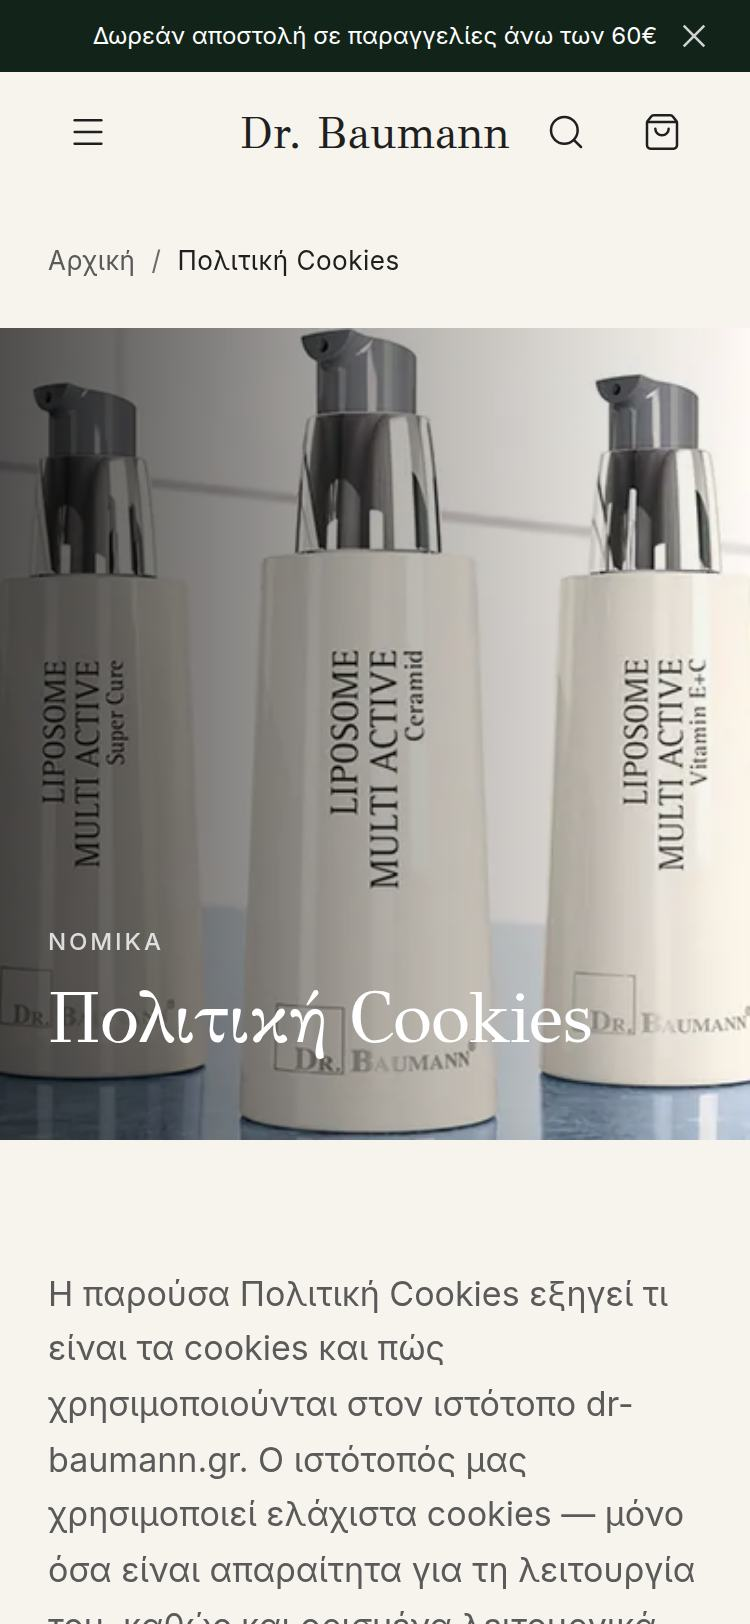
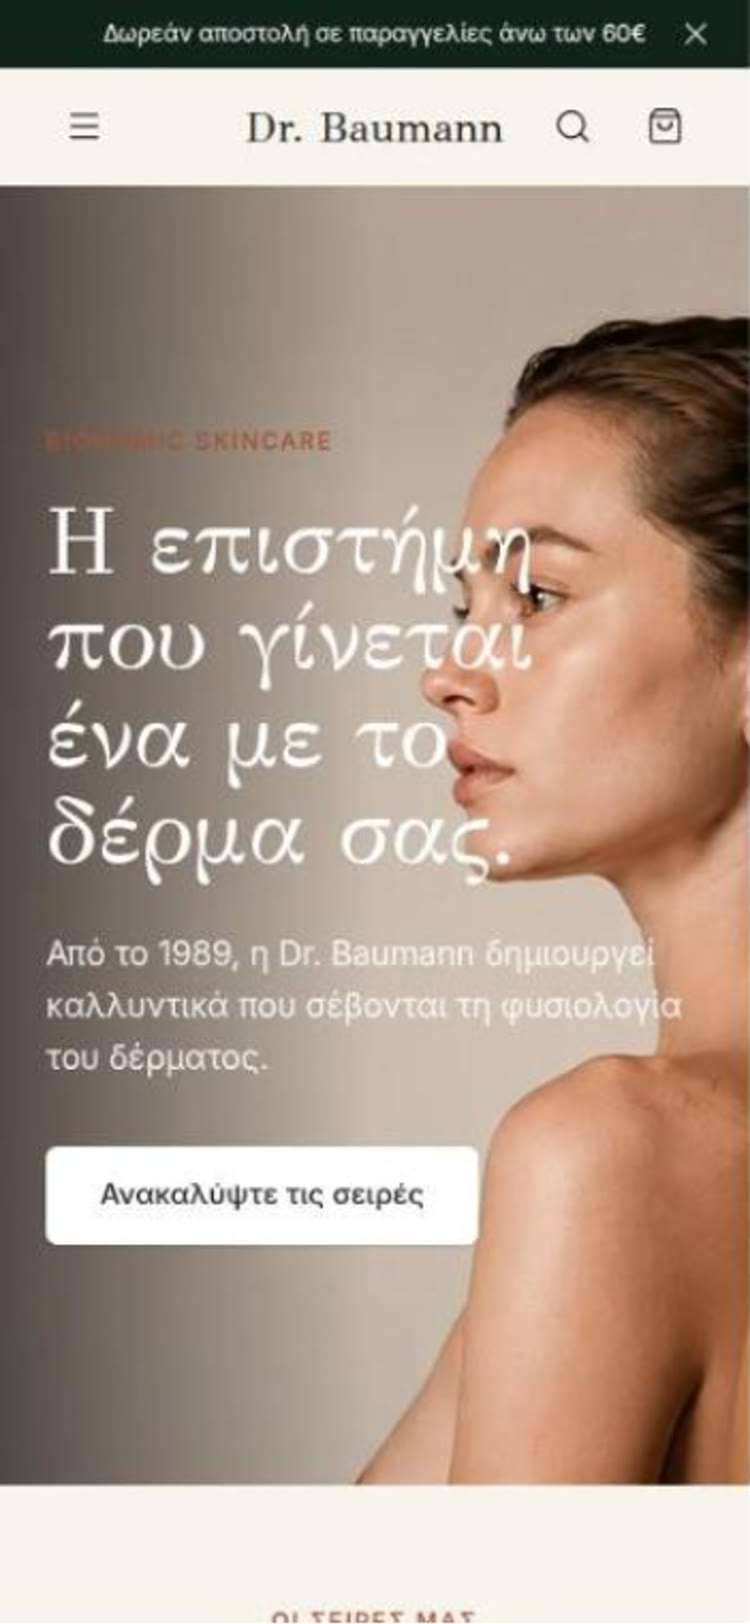
fix(home): correct the work mockup crops and Baumann phone
Replace the Dr. Baumann phone shot with the homepage capture, give the small cards a 16:10 media area, and place the Salty phone on the lower third of the browser.

diff --git a/src/app/home.css b/src/app/home.css
@@ -691,7 +691,56 @@
   }
 
   .home-work-card.is-small .home-work-media {
-    min-height: 210px;
+    flex: none;
+    aspect-ratio: 16 / 10;
+    height: auto;
+    min-height: 0;
+  }
+}
+
+@media (min-width: 640px) {
+  .home-work-card.is-large .home-work-browser {
+    top: 19%;
+  }
+
+  .home-work-card.is-large .home-work-phone.is-bottom-left {
+    top: 53%;
+    bottom: auto;
+    height: auto;
+  }
+
+  .home-work-card.is-small .home-work-browser.is-right {
+    top: 12%;
+    right: auto;
+    bottom: auto;
+    left: 4%;
+    width: 76%;
+  }
+
+  .home-work-card.is-small .home-work-phone.is-right {
+    top: 13%;
+    right: 4%;
+    bottom: auto;
+    left: auto;
+    width: 22%;
+    height: auto;
+  }
+
+  .home-work-card.is-small .home-work-browser.is-left {
+    top: 12%;
+    right: auto;
+    bottom: auto;
+    left: 30%;
+    width: 72%;
+  }
+
+  .home-work-card.is-small .home-work-phone.is-left {
+    top: 30%;
+    right: auto;
+    bottom: auto;
+    left: 4%;
+    width: 31%;
+    height: auto;
   }
 }
 
@@ -1086,8 +1135,18 @@
   color: var(--g-mint);
 }
 
+@media (min-width: 640px) and (max-width: 1023px) {
+  .home-work-card.is-small .home-work-media {
+    flex: none;
+    aspect-ratio: 16 / 10;
+    height: auto;
+    min-height: 0;
+  }
+}
+
 @media (min-width: 768px) and (max-width: 1023px) {
   .home-work-media,
+  .home-work-card.is-small .home-work-media,
   .home-upcoming-photo {
     aspect-ratio: 16 / 9;
     min-height: 0;

diff --git a/src/components/Work.tsx b/src/components/Work.tsx
@@ -69,7 +69,7 @@ function SelectedCard({ project, size }: { project: Project; size: "large" | "sm
         <PhoneFrame
           image={shots?.mobile ?? project.mobileImage}
           alt={mobileAlt}
-          border={large ? 7 : 5}
+          border={large ? 7 : 6}
           radius={large ? 26 : 20}
           sizes={large ? "24vw" : "30vw"}
           className={`home-work-phone is-${phone}`}
